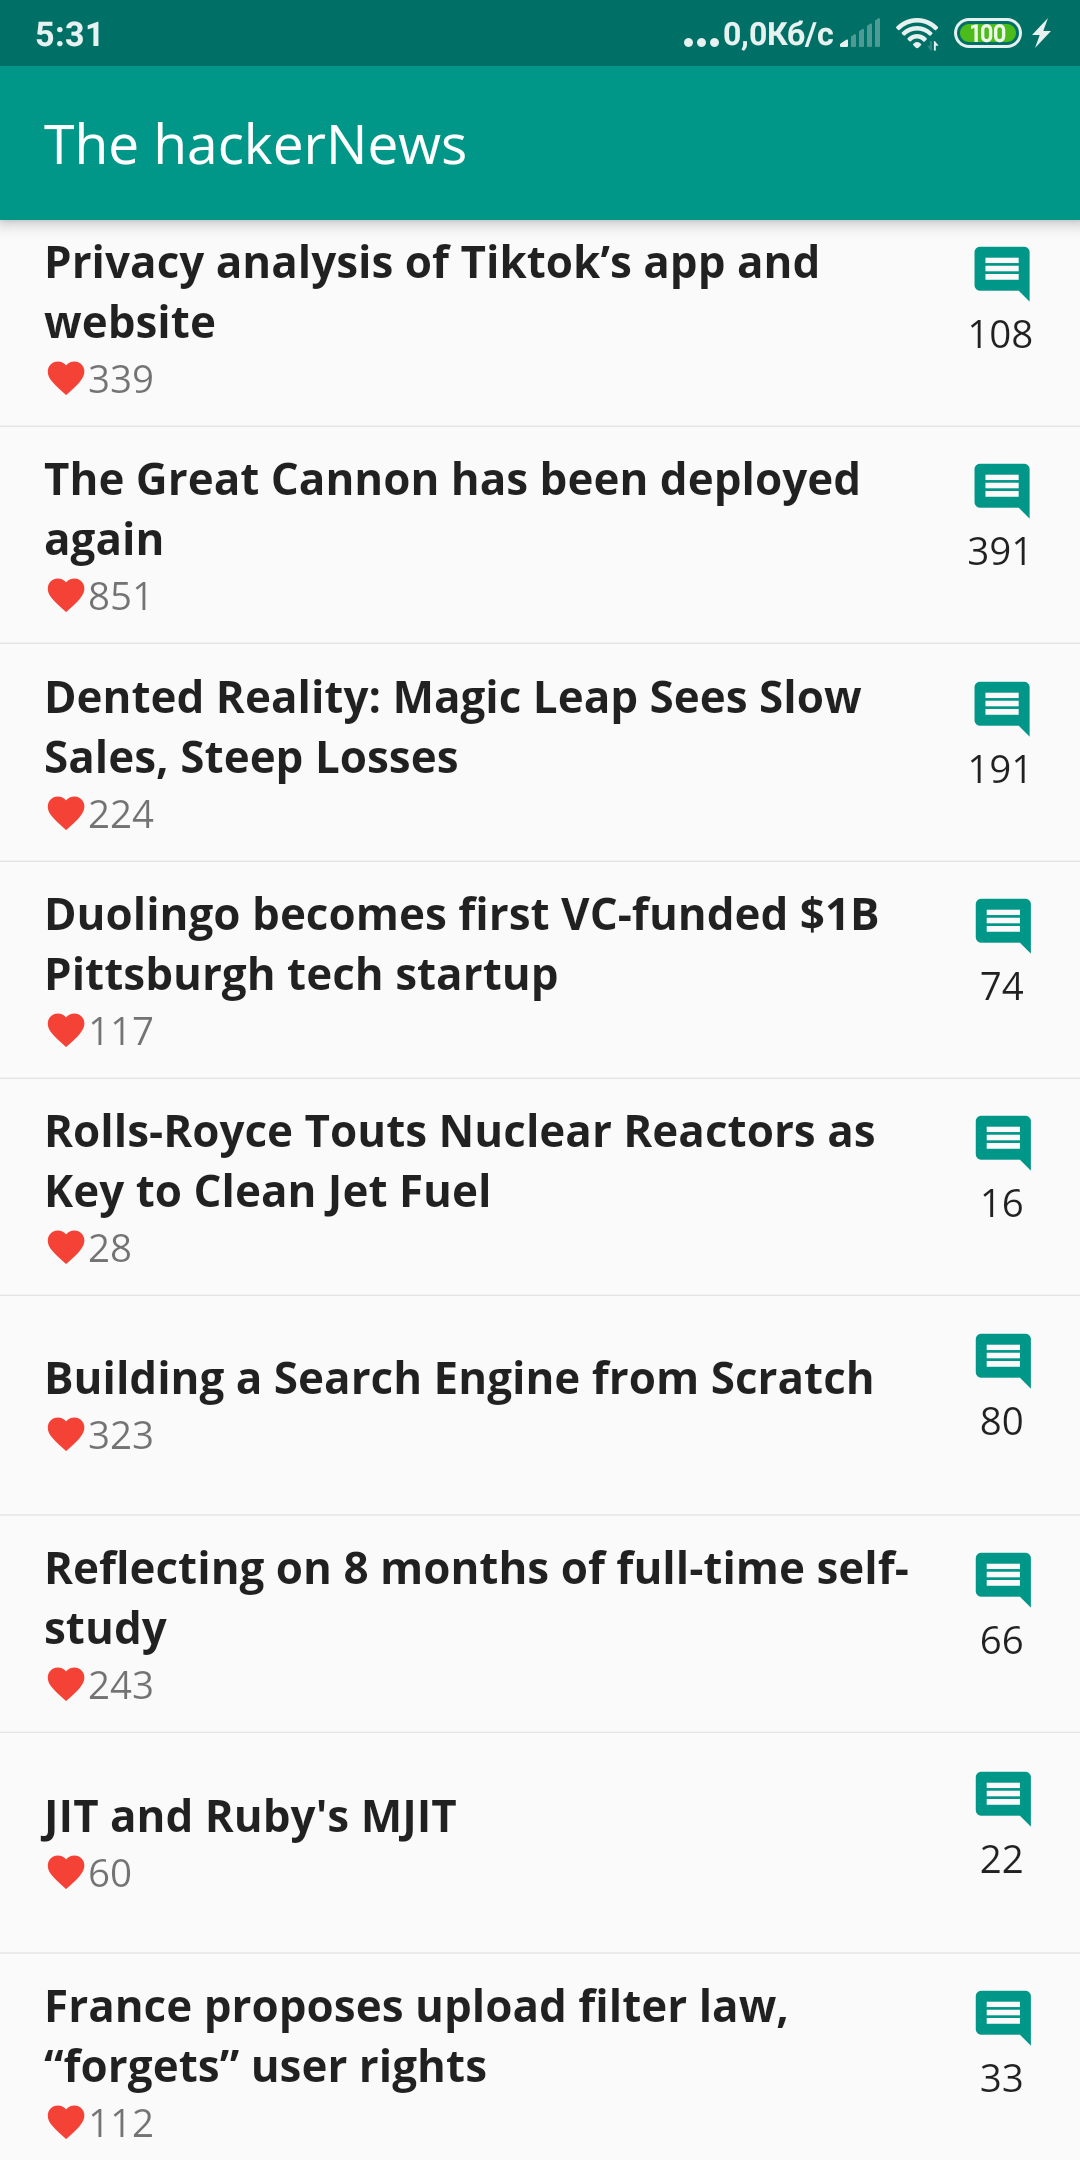
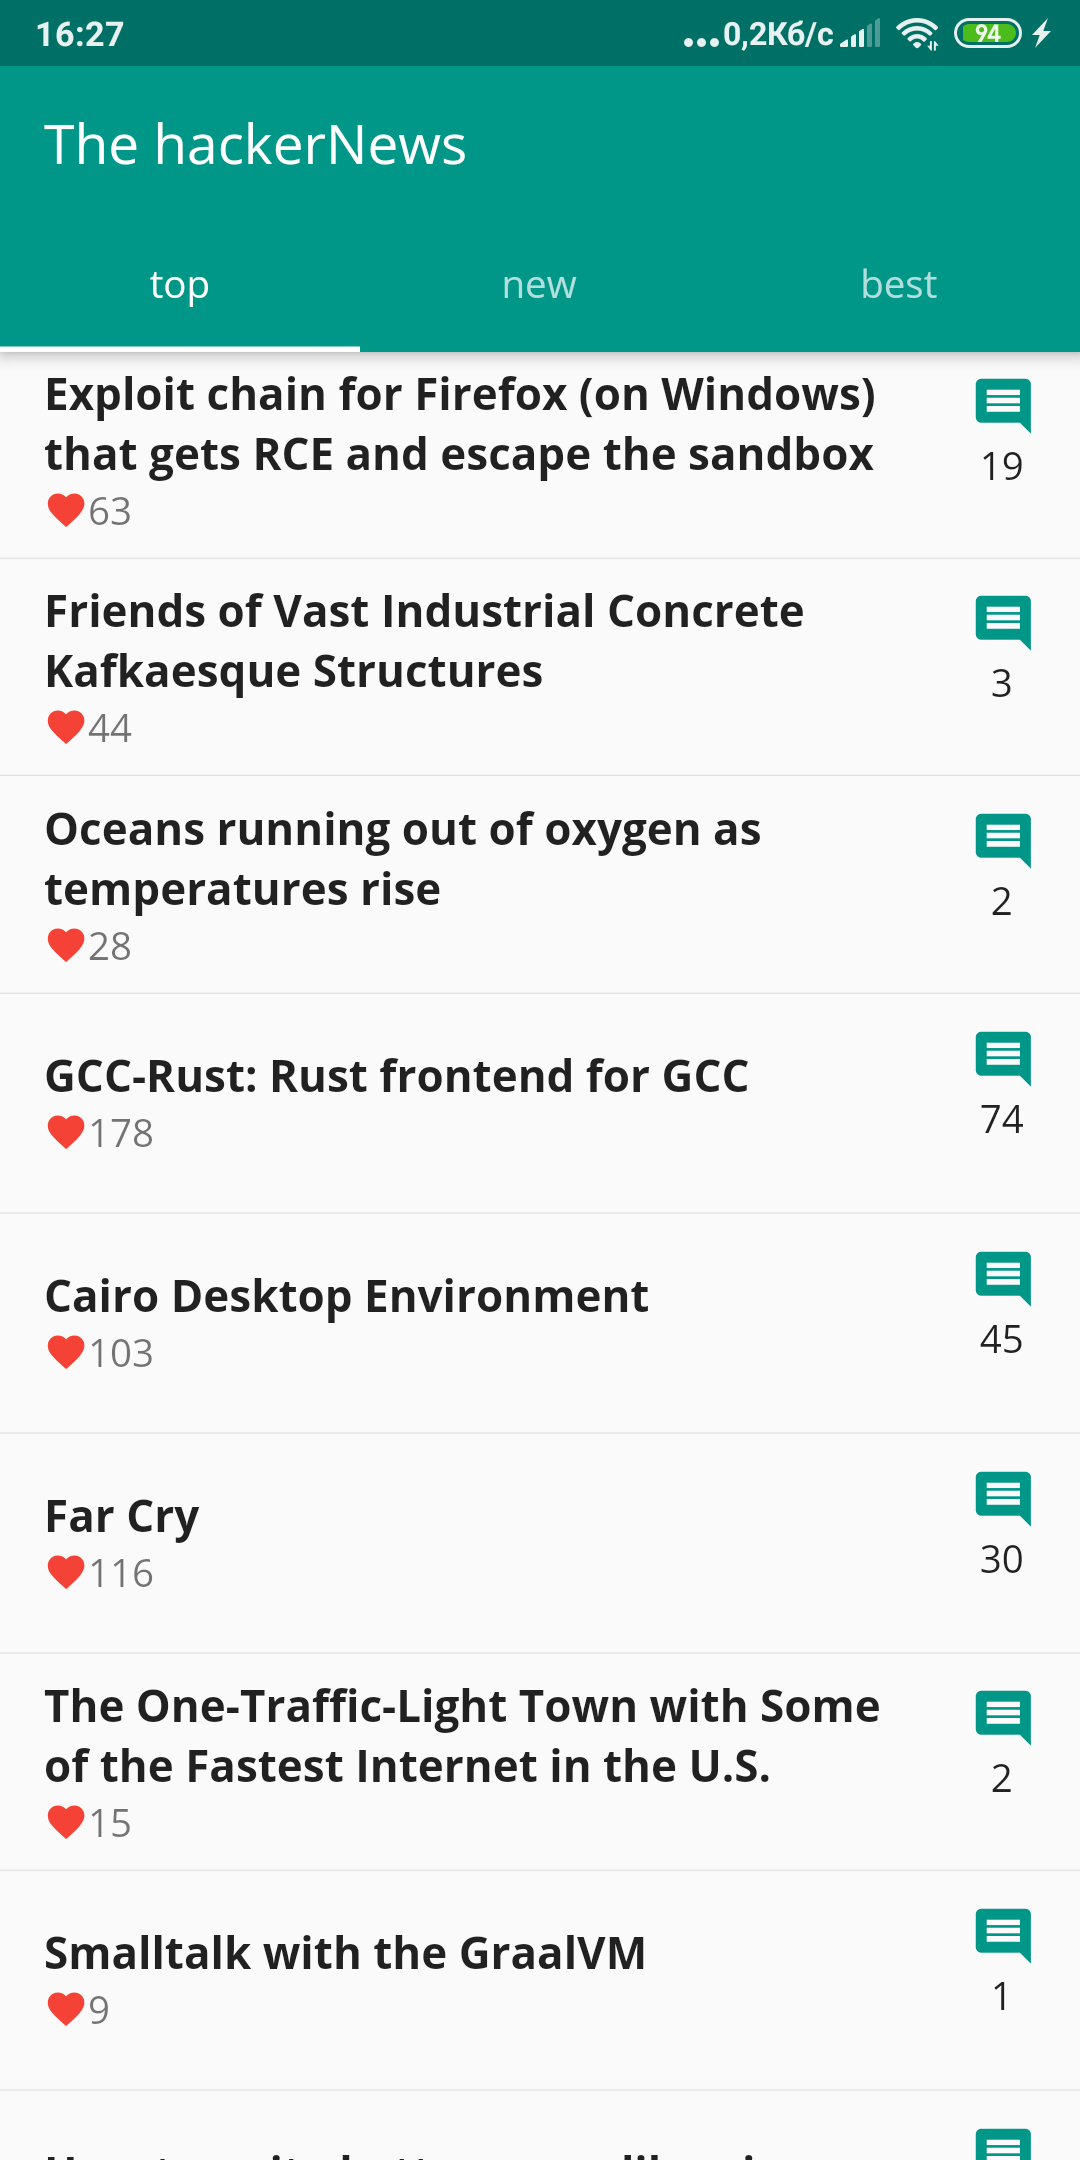
TabBar different categories
add: TabBar with 3 categoreis of stories
changed: fetchTopIds() in Source changed to fetchListIds() which depends on type of  news we want to fetch
changed: repository, bloc, Db, Api fetchListIds()
changed: refresh indicator fetches the data about current page

diff --git a/lib/src/screens/news_list_screen.dart b/lib/src/screens/news_list_screen.dart
@@ -1,17 +1,56 @@
 import 'package:flutter/material.dart';
 
+import '../resources/list_type.dart';
+import '../blocs/stories_provider.dart';
 import '../widgets/news_list/news_list.dart';
 
-class NewsListScreen extends StatelessWidget {
+class NewsListScreen extends StatefulWidget {
+  @override
+  _NewsListScreenState createState() => _NewsListScreenState();
+}
+
+class _NewsListScreenState extends State<NewsListScreen> with SingleTickerProviderStateMixin{
+
+  TabController _controller;
+  StoriesBloc _bloc;
+  @override
+  void initState() {
+    super.initState();
+    _controller = TabController(length: 3,vsync: this);
+    _controller.addListener(_tabSwitch);
+  }
+
+  _tabSwitch(){
+    if(_controller.index == 0) _bloc.fetchListIds(TypeOfList.TopStories);
+    if(_controller.index == 1) _bloc.fetchListIds(TypeOfList.NewStories);
+    if(_controller.index == 2) _bloc.fetchListIds(TypeOfList.BestStories);
+  }
+
   @override
   Widget build(BuildContext context) {
+    _bloc = StoriesProvider.of(context);
     return Scaffold(
       appBar: AppBar(
         title: Text(
           'The hackerNews',
         ),
+        bottom: TabBar(
+          controller: _controller,
+          tabs: <Widget>[
+            Tab(child: Text("top")),
+            Tab(child: Text("new")),
+            Tab(child: Text("best")),
+          ],
+        ),
       ),
-      body: NewsList(),
+      body: TabBarView(
+        controller: _controller,
+        children: <Widget>[
+          NewsList(TypeOfList.TopStories),
+          NewsList(TypeOfList.NewStories),
+          NewsList(TypeOfList.BestStories),
+        ],
+      )
     );
   }
 }

diff --git a/lib/src/resources/news_api_provider.dart b/lib/src/resources/news_api_provider.dart
@@ -1,8 +1,9 @@
 import 'dart:convert';
 
-import 'package:hacker_news/src/models/item_model.dart';
 import 'package:http/http.dart' show Client;
 
+import '../models/item_model.dart';
+import 'list_type.dart';
 import 'data_provider.dart';
 
 class NewsApiProvider implements Source {
@@ -11,10 +12,23 @@ class NewsApiProvider implements Source {
   final _root = 'https://hacker-news.firebaseio.com/v0';
 
   /// Fetches list of top HackerNews ids
-  Future<List<int>> fetchTopIds() async {
-    final responce = await client.get("$_root/topstories.json");
+  Future<List<int>> fetchListIds(TypeOfList type) async {
+    String endpoint;
+    switch (type) {
+      case TypeOfList.TopStories:
+        endpoint = "topstories.json";
+        break;
+      case TypeOfList.NewStories:
+        endpoint = "newstories.json";
+        break;
+      case TypeOfList.BestStories:
+        endpoint = "beststories.json";
+        break;
+      default: 
+        endpoint = "topstories.json";
+    }
+    final responce = await client.get("$_root/$endpoint");
     final ids = json.decode(responce.body);
-
     return ids.cast<int>();
   }
 

diff --git a/lib/src/resources/repository.dart b/lib/src/resources/repository.dart
@@ -1,10 +1,12 @@
 import 'dart:async';
 
-import 'package:hacker_news/src/resources/data_provider.dart';
-
+import 'data_provider.dart';
+import 'list_type.dart';
 import 'news_api_provider.dart';
 import 'news_db_provider.dart';
 import '../models/item_model.dart';
+
+export 'list_type.dart';
 
 class Repository {
   List<Source> sources = <Source>[
@@ -18,8 +20,8 @@ class Repository {
 
   // TODO: Iterate throught sources and fetch top Ids
   // Implement Db source
-  Future<List<int>> fetchTopIds() async {
-    return sources[1].fetchTopIds();
+  Future<List<int>> fetchListIds(TypeOfList type) async {
+    return sources[1].fetchListIds(type);
   }
 
   Future<ItemModel> fetchItem(int id) async {

diff --git a/lib/src/widgets/news_list/refresh_indicator.dart b/lib/src/widgets/news_list/refresh_indicator.dart
@@ -1,9 +1,12 @@
 import 'package:flutter/material.dart';
-import 'package:hacker_news/src/blocs/stories_provider.dart';
+
+import '../../blocs/stories_provider.dart';
+import '../../resources/list_type.dart';
 
 class Refresh extends StatelessWidget {
   final Widget child;
-  Refresh(this.child);
+  final TypeOfList type;
+  Refresh(this.child, {@required this.type});
 
   @override
   Widget build(BuildContext context) {
@@ -12,7 +15,7 @@ class Refresh extends StatelessWidget {
       child: child,
       onRefresh: () async {
         await bloc.clearCache();
-        bloc.fetchTopIds();
+        bloc.fetchListIds(type);
       },
     );
   }

diff --git a/lib/src/app.dart b/lib/src/app.dart
@@ -4,6 +4,7 @@ import 'screens/news_list_screen.dart';
 import 'screens/news_details_screen.dart';
 import 'blocs/stories_provider.dart';
 import 'blocs/comments_provider.dart';
+import 'resources/list_type.dart';
 
 class App extends StatelessWidget {
   @override
@@ -40,7 +41,8 @@ class App extends StatelessWidget {
     //default route '/'
     return MaterialPageRoute(builder: (context) {
       final storiesBloc = StoriesProvider.of(context);
-      storiesBloc.fetchTopIds();
+      // initial page stories fetch
+      storiesBloc.fetchListIds(TypeOfList.TopStories);
       return NewsListScreen();
     });
   }

diff --git a/lib/src/widgets/news_list/news_list.dart b/lib/src/widgets/news_list/news_list.dart
@@ -1,10 +1,13 @@
 import 'package:flutter/material.dart';
 
+import '../../resources/list_type.dart';
 import '../../blocs/stories_provider.dart';
 import 'news_list_tile.dart';
 import 'refresh_indicator.dart';
 
 class NewsList extends StatelessWidget {
+  TypeOfList type;
+  NewsList(this.type);
   @override
   Widget build(BuildContext context) {
     final bloc = StoriesProvider.of(context);
@@ -32,6 +35,7 @@ class NewsList extends StatelessWidget {
               return NewsListTile(itemId: snapshot.data[index]);
             },
           ),
+          type: type,
         );
       },
     );

diff --git a/test/src/resources/news_api_provider_test.dart b/test/src/resources/news_api_provider_test.dart
@@ -1,4 +1,5 @@
 import 'package:hacker_news/src/models/item_model.dart';
+import 'package:hacker_news/src/resources/list_type.dart';
 import "package:hacker_news/src/resources/news_api_provider.dart";
 import 'dart:convert';
 import 'package:test/test.dart';
@@ -17,7 +18,7 @@ void main() {
       );
     });
 
-    final ids = await newsApi.fetchTopIds();
+    final ids = await newsApi.fetchListIds(TypeOfList.BestStories);
 
     expect(ids, testArray);
   });

diff --git a/lib/src/blocs/stories_bloc.dart b/lib/src/blocs/stories_bloc.dart
@@ -23,8 +23,8 @@ class StoriesBloc {
   // Getters to Sinks
   get fetchItem => _itemsFetcher.sink.add;
 
-  fetchTopIds() async {
-    final ids = await _repository.fetchTopIds();
+  fetchListIds(TypeOfList type) async {
+    final ids = await _repository.fetchListIds(type);
     _topIds.sink.add(ids);
   }
 

diff --git a/lib/src/resources/data_provider.dart b/lib/src/resources/data_provider.dart
@@ -1,7 +1,8 @@
-import 'package:hacker_news/src/models/item_model.dart';
+import '../models/item_model.dart';
+import 'list_type.dart';
 
 abstract class Source {
-  Future<List<int>> fetchTopIds();
+  Future<List<int>> fetchListIds(TypeOfList type);
   Future<ItemModel> fetchItem(int id);
 }
 

diff --git a/lib/src/resources/news_db_provider.dart b/lib/src/resources/news_db_provider.dart
@@ -47,7 +47,7 @@ class NewsDbProvider implements Source, Cache {
   }
 
   // TODO: store TopIds
-  Future<List<int>> fetchTopIds() {
+  Future<List<int>> fetchListIds(type) {
     return null;
   }
 

diff --git a/lib/main.dart b/lib/main.dart
@@ -1,4 +1,5 @@
 import 'package:flutter/material.dart';
-import 'package:hacker_news/src/app.dart';
+
+import 'src/app.dart';
 
 void main() => runApp(App());

diff --git a/lib/src/resources/list_type.dart b/lib/src/resources/list_type.dart
@@ -1,0 +1,5 @@
+enum TypeOfList{
+  TopStories,
+  NewStories,
+  BestStories,
+}
